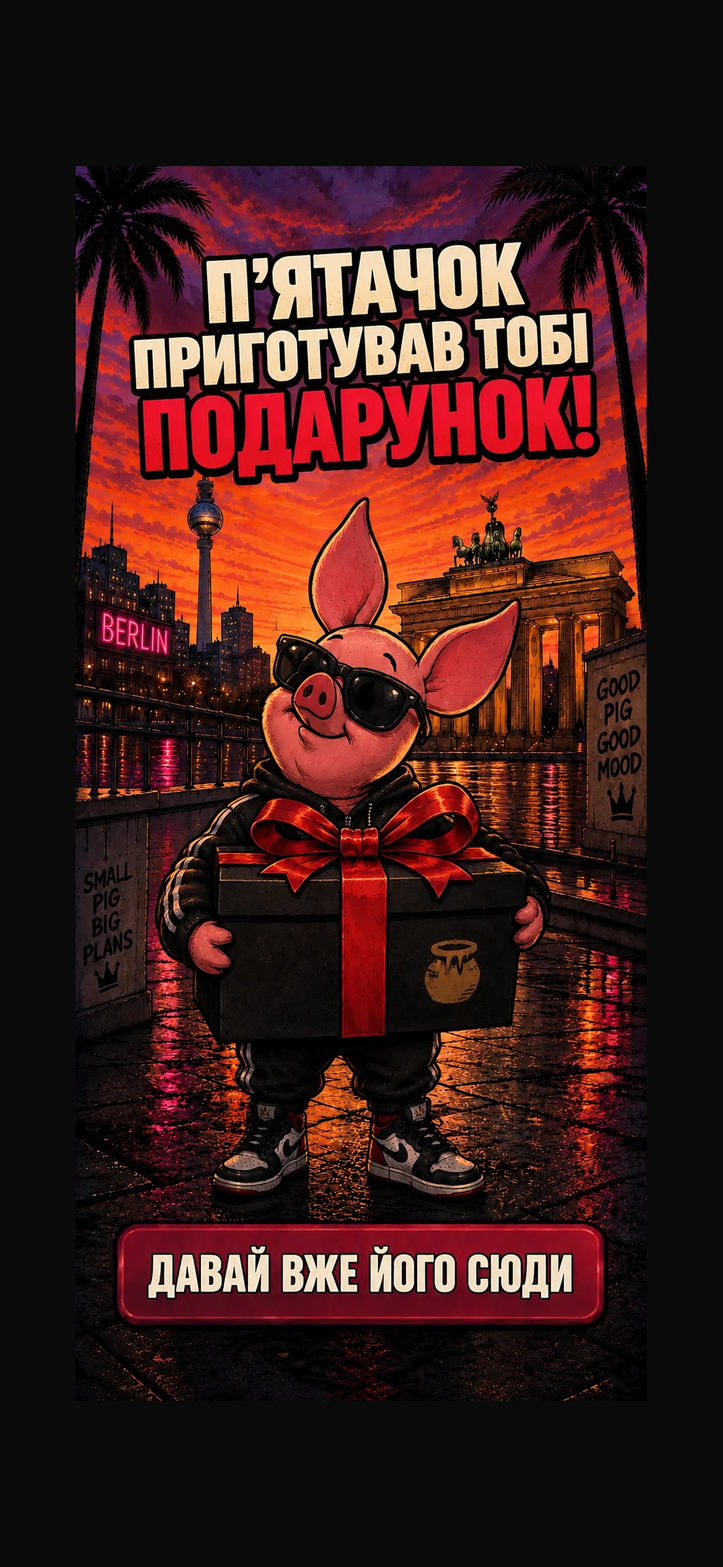
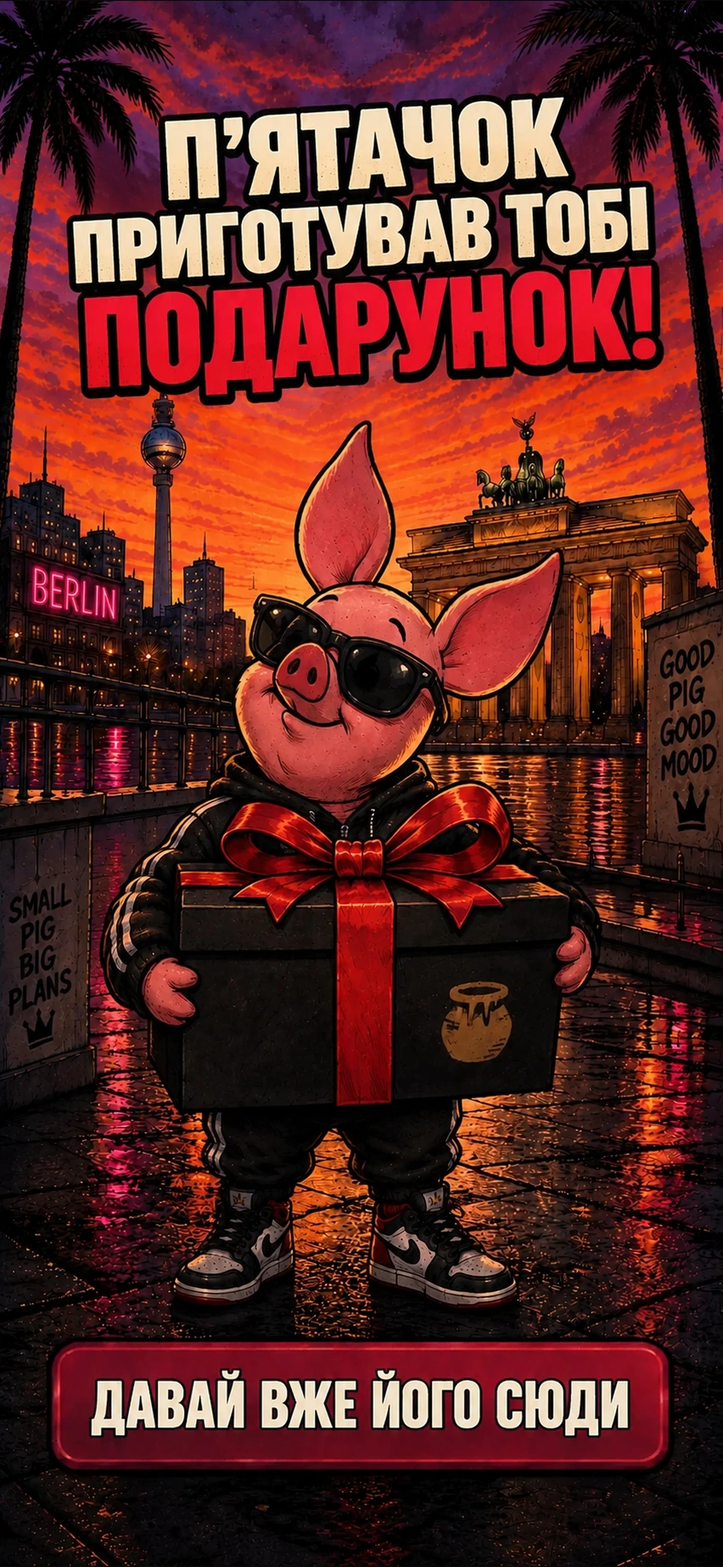
another fix

diff --git a/game.css b/game.css
@@ -177,13 +177,9 @@ button:active{transform:scale(.985);filter:brightness(.88)}
 @keyframes finaleReveal{from{opacity:.72;transform:scale(1.012)}to{opacity:1;transform:scale(1)}}
 @media (prefers-reduced-motion:reduce){.finale-card .night-image-scene img{animation:none!important}}
 
-/* v19 — festive gift reveal. The artwork itself stays unchanged. */
-.gift-home-scene{position:relative;overflow:hidden}
-/* v21 — gift scene uses the exact same full-screen image geometry as the other finale screens. */
-.gift-final-scene,.gift-home-scene{width:100%;height:100dvh;max-height:100dvh;display:flex;align-items:flex-start;justify-content:center;overflow:hidden}
-.gift-final-scene img,.gift-home-scene img{width:auto!important;height:100%!important;max-width:100%!important;max-height:100dvh!important;object-fit:contain!important;margin:0 auto!important}
-/* The baked-in red button on pizdarunok.webp starts higher than the generic finale hotspot. */
-.gift-final-scene .day-summary-next-hotspot{left:8.3333%;top:85.64%;width:83.3333%;height:7.85%;min-height:0!important;margin:0!important;padding:0!important;z-index:20!important;pointer-events:auto!important;touch-action:manipulation!important;-webkit-tap-highlight-color:transparent}
+/* v22 — gift images use the exact same .night-image-scene geometry as every other finale image. */
+/* The baked-in red button on pizdarunok.webp sits slightly above the generic hotspot. */
+.night-image-scene #gift.day-summary-next-hotspot{left:8.3333%;top:85.64%;width:83.3333%;height:7.85%;min-height:0!important;margin:0!important;padding:0!important;z-index:20!important;pointer-events:auto!important;touch-action:manipulation!important;-webkit-tap-highlight-color:transparent}
 .gift-confetti{position:absolute;inset:0;pointer-events:none;overflow:hidden;z-index:4}
 .gift-confetti i{position:absolute;left:50%;top:42%;width:10px;height:22px;border-radius:2px;background:#F2E7D0;opacity:0;transform:translate(-50%,-50%);animation:gift-confetti-burst 1.9s cubic-bezier(.18,.72,.2,1) forwards;animation-delay:calc(var(--i) * 0.025s);}
 .gift-confetti i:nth-child(3n){background:#9E153A}

diff --git a/js/game.js b/js/game.js
@@ -453,7 +453,7 @@ function birthday(){
 }
 function birthdayGift(){
  setClock('00:55');
- render(`<div class="card day-summary-card finale-card"><div class="night-image-scene gift-final-scene">
+ render(`<div class="card day-summary-card finale-card"><div class="night-image-scene">
  <img src="images/pizdarunok.webp" alt="Подарунок">
  <button class="day-summary-next-hotspot" id="gift" aria-label="Відкрити подарунок"></button>
  </div></div>`);
@@ -471,7 +471,7 @@ function birthdayGift(){
 }
 function giftNext(){
  setClock('00:55');
- render(`<div class="card day-summary-card finale-card"><div class="night-image-scene gift-home-scene">
+ render(`<div class="card day-summary-card finale-card"><div class="night-image-scene">
  <img src="images/pizdarunok_waits_at_home.webp" alt="Він з П’ятачоком чекають на тебе вдома">
  <div class="gift-confetti" aria-hidden="true">${Array.from({length:24},(_,i)=>`<i style="--i:${i}"></i>`).join('')}</div>
  </div></div>`);
